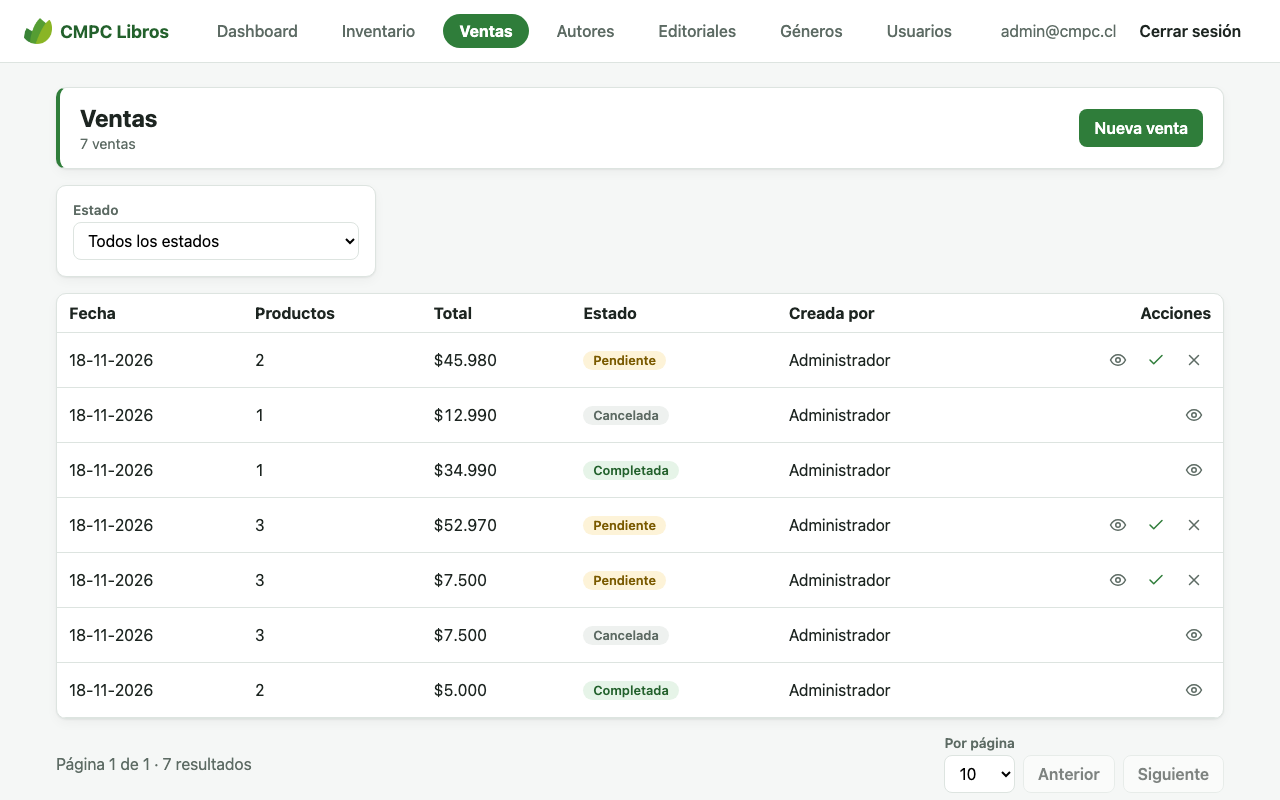
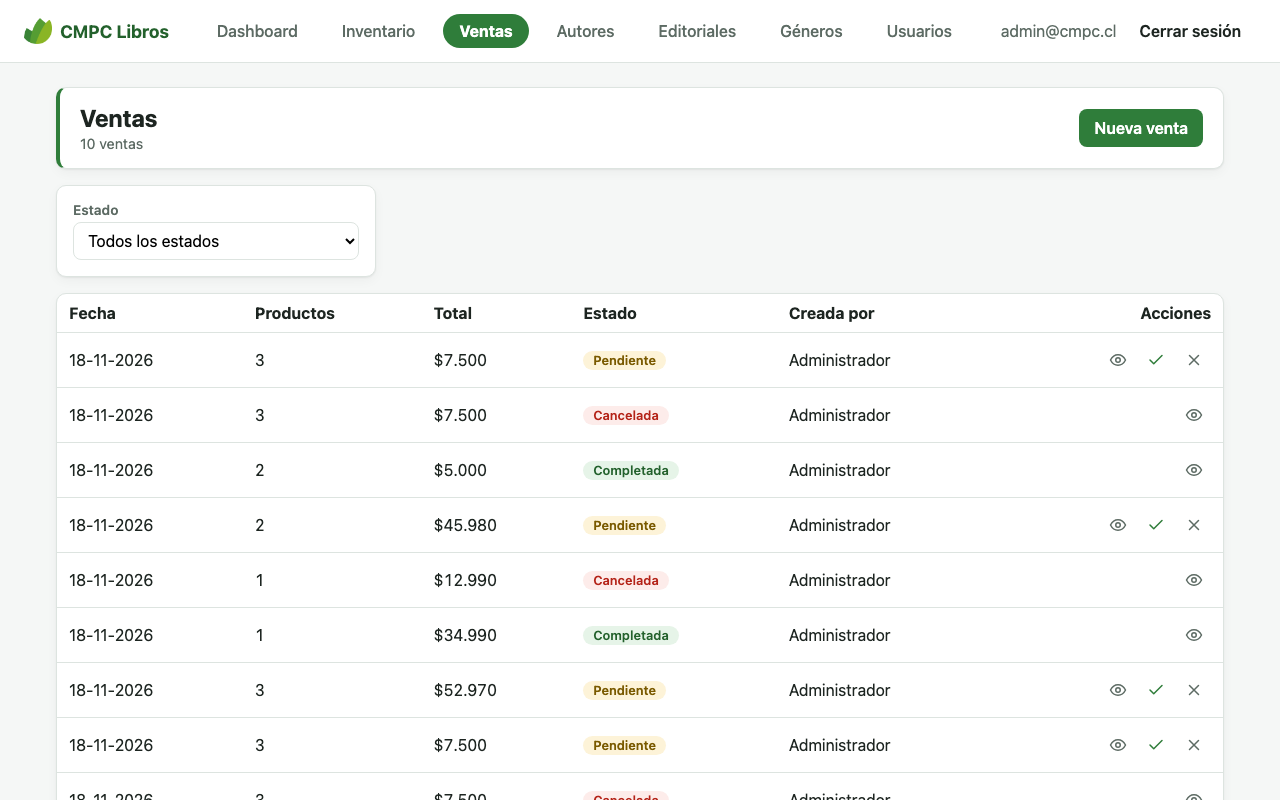
feat(web): show cancelled sales in red
The cancelled status badge was grey like a neutral state; it now uses the
danger colors, with a test that fixes the color of each status.

diff --git a/apps/web/src/features/sales/sales.test.tsx b/apps/web/src/features/sales/sales.test.tsx
@@ -165,6 +165,21 @@ describe('SalesPage', () => {
     );
   });
 
+  it('colors each status: pending in amber, completed in green and cancelled in red', async () => {
+    const sale = (id: string, status: SaleSummary['status']) => ({ ...SUMMARY, id, status });
+    sales.listPage.mockResolvedValue(
+      pageOf([sale('s1', 'PENDING'), sale('s2', 'COMPLETED'), sale('s3', 'CANCELLED')]),
+    );
+    renderWithProviders(<SalesPage />);
+
+    const badge = (label: string) => screen.getByText(label, { selector: '.badge' });
+    await screen.findByRole('table');
+
+    expect(badge('Pendiente')).toHaveClass('badge--warning');
+    expect(badge('Completada')).toHaveClass('badge--success');
+    expect(badge('Cancelada')).toHaveClass('badge--danger');
+  });
+
   it('shows an empty state when there are no sales', async () => {
     sales.listPage.mockResolvedValue(pageOf([]));
     renderWithProviders(<SalesPage />);

diff --git a/apps/web/src/features/sales/ui/SaleStatusBadge.tsx b/apps/web/src/features/sales/ui/SaleStatusBadge.tsx
@@ -3,7 +3,7 @@ import { SALE_STATUS_LABELS, type SaleStatus } from '../domain/sale.types';
 const TONE: Record<SaleStatus, string> = {
   PENDING: 'warning',
   COMPLETED: 'success',
-  CANCELLED: 'muted',
+  CANCELLED: 'danger',
 };
 
 export function SaleStatusBadge({ status }: { status: SaleStatus }) {

diff --git a/apps/web/src/styles/global.css b/apps/web/src/styles/global.css
@@ -717,6 +717,10 @@ a.icon-button {
   background: #fdf3d8;
   color: #7a5a00;
 }
+.badge--danger {
+  background: var(--color-danger-soft);
+  color: var(--color-danger);
+}
 .sales-filter {
   max-width: 320px;
   padding: var(--space);
